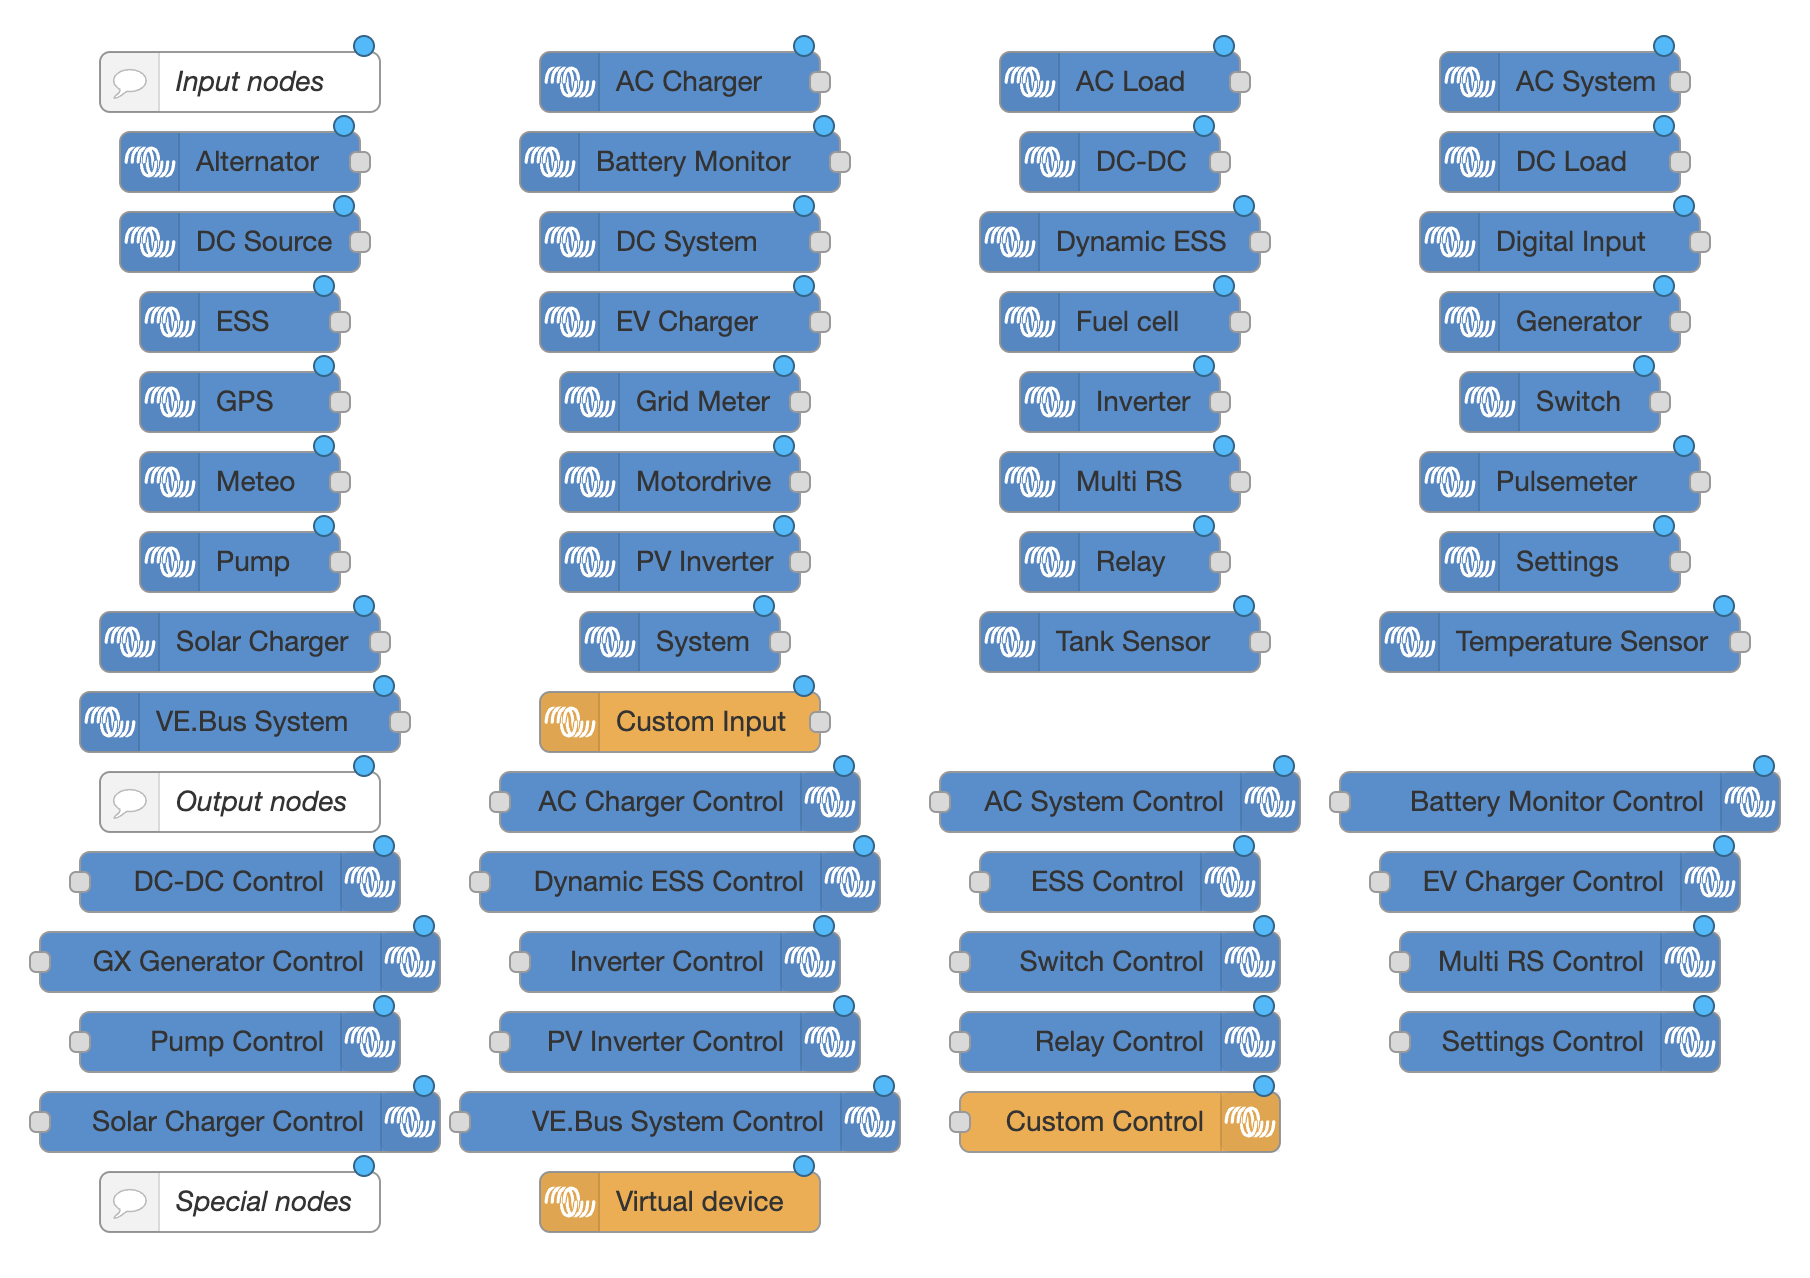
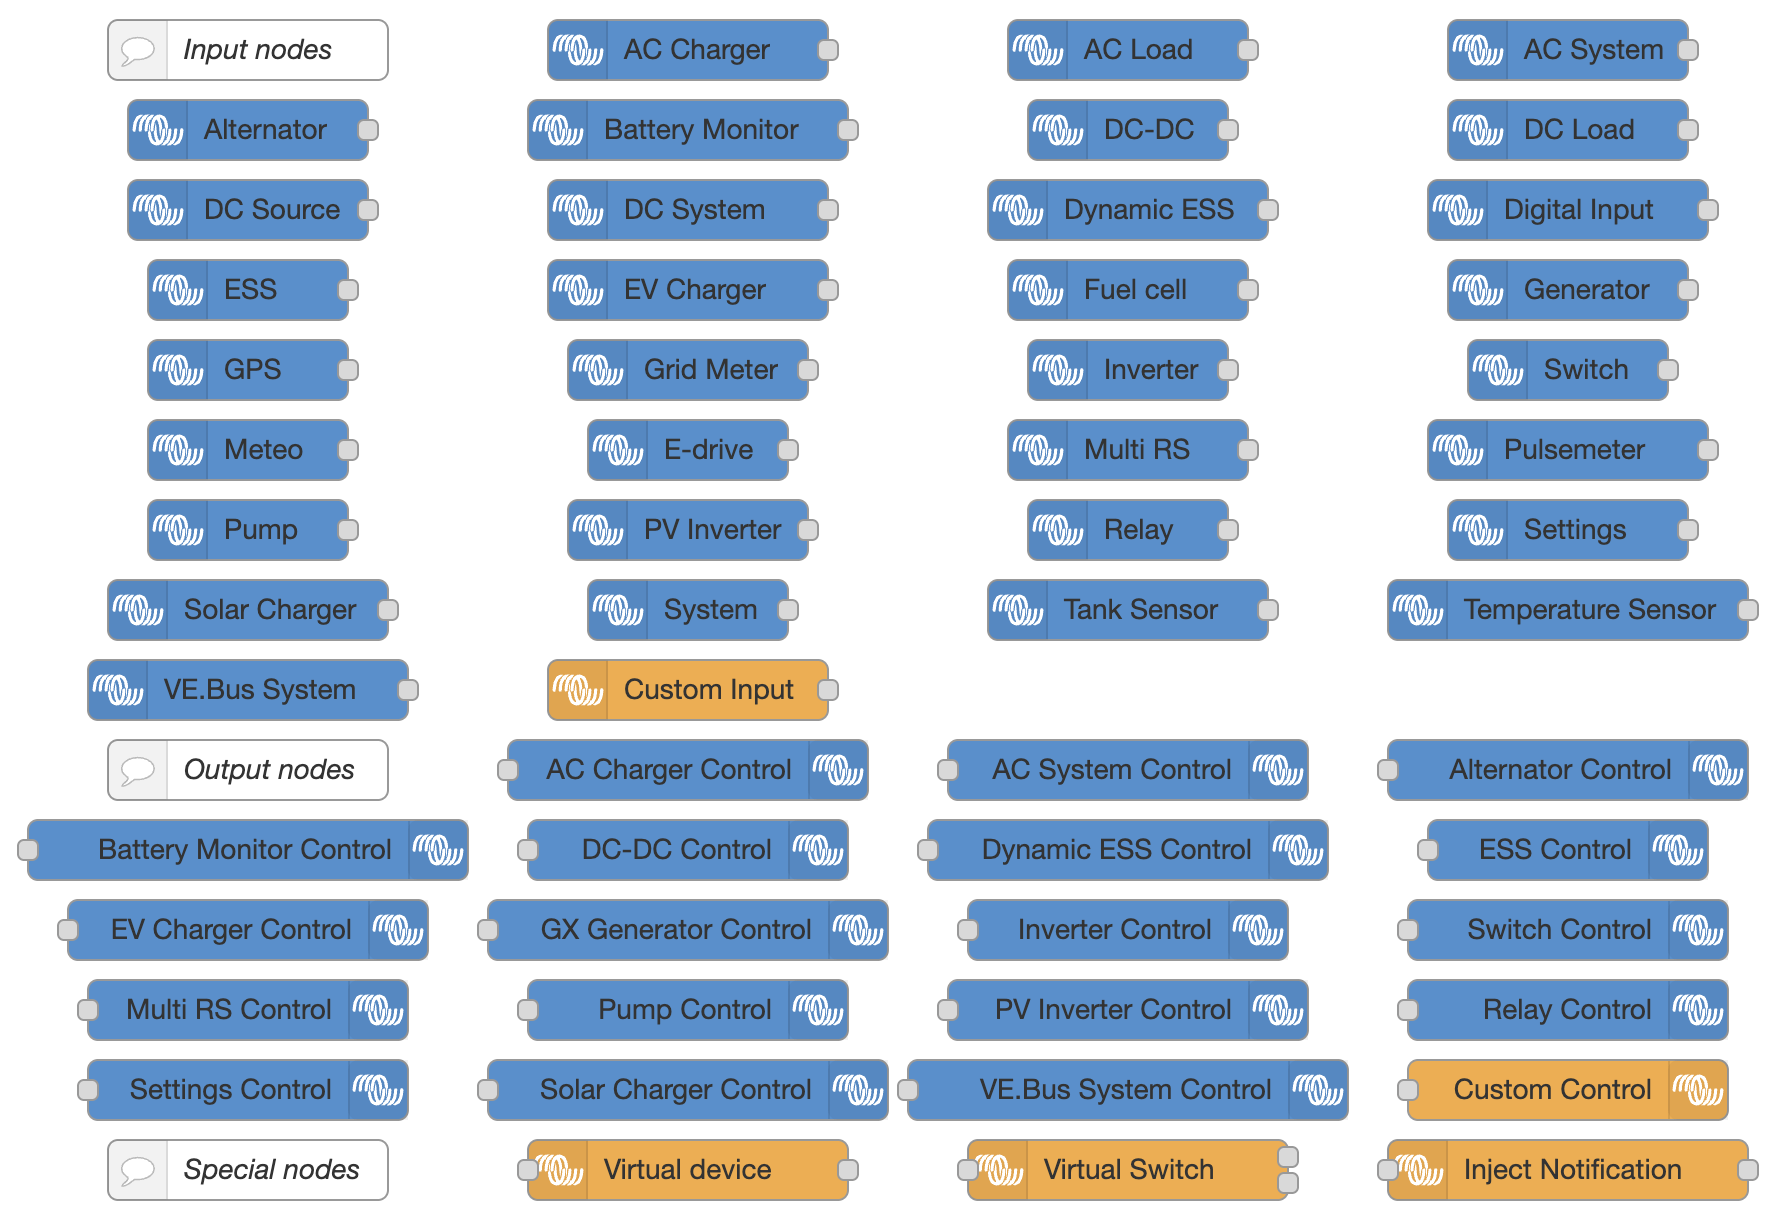
feat(alternator): add output-alternator node for Orion XS control in Charger mode
When the Orion XS is in Charger mode it registers on D-Bus as
com.victronenergy.alternator. The alternator /Mode path lacked
mode: both, so there was no way to write to it, and no
victron-output-alternator node existed.

- Add mode: both to /Mode in the alternator service definition
- Register victron-output-alternator node in JS and HTML
- Add output-alternator to listAvailableServices()
- Set alternator help.output to " " so node-palette.js includes it
- Add victron-virtual-switch and victron-inject to node-palette.js
- Regenerate config-client.html docs and wiki pages
- Update node-palette.png screenshot

Closes #193

diff --git a/src/nodes/config-client.html b/src/nodes/config-client.html
@@ -158,7 +158,7 @@ Questions can also be asked within the Node-RED space on the Victron Energy comm
     border-left: 4px solid #007acc;
     border-radius: 4px;
   }
-  
+
   .wildcard-info code {
     background-color: #e1f5fe;
     color: #01579b;
@@ -166,12 +166,12 @@ Questions can also be asked within the Node-RED space on the Victron Energy comm
     padding: 1px 3px;
     border-radius: 3px;
   }
-  
+
   .wildcard-info ul {
     margin: 5px 0 0 0;
     padding-left: 20px;
   }
-  
+
   dt[style*="border-left"], dd[style*="border-left"] {
     background: #fcfcfc;
   }
@@ -766,7 +766,146 @@ Questions can also be asked within the Node-RED space on the Victron Energy comm
   <dd>Dbus path: <b>/History/EnergyOut</b><span class="property-mode"></span>
 </dd>
   <dt class="optional">Mode<span class="property-type">enum</span></dt>
-  <dd>Dbus path: <b>/Mode</b><span class="property-mode"></span>
+  <dd>Dbus path: <b>/Mode</b><span class="property-mode"> (Mode: both)</span>
+<ul>
+  <li>1 - On</li>
+  <li>4 - Off</li>
+</ul></dd>
+  <dt class="optional">Alternator speed (RPM)<span class="property-type">float</span></dt>
+  <dd>Dbus path: <b>/Speed</b><span class="property-mode"></span>
+</dd>
+  <dt class="optional">Alternator state<span class="property-type">enum</span></dt>
+  <dd>Dbus path: <b>/State</b><span class="property-mode"></span>
+<ul>
+  <li>0 - Off</li>
+  <li>2 - Fault</li>
+  <li>3 - Bulk</li>
+  <li>4 - Absorption</li>
+  <li>5 - Float</li>
+  <li>6 - Storage</li>
+  <li>7 - Equalize</li>
+  <li>11 - Psu</li>
+  <li>252 - External control</li>
+</ul></dd>
+</dl>
+</script>
+
+<script type="text/x-red" data-help-name="victron-output-alternator">
+<h3>Details</h3>
+<p>The <strong>output nodes</strong> have two selectable inputs: the devices select and measurement select. The available options are dynamically updated based on the data that is actually available on the Venus device.</p>
+
+<div class="wildcard-info" style="background: #f5f5f5; padding: 10px; margin: 10px 0; border-left: 4px solid #007acc;">
+  <strong>📝 Wildcard Paths:</strong> 
+  Paths containing placeholders like <code>{type}</code>, <code>{tracker}</code>, <code>{phase}</code> 
+  will be automatically expanded to show available options based on your connected devices.
+  <ul style="margin: 5px 0;">
+    <li><code>{type}</code> - Switch types (output_1, output_2, pwm_1, relay_1, etc.)</li>
+    <li><code>{tracker}</code> - PV tracker numbers (0, 1, 2, 3)</li>
+    <li><code>{phase}</code> - AC phases (1, 2, 3 for L1, L2, L3)</li>
+    <li><code>{day}</code> - History days (0=today, 1=yesterday)</li>
+    <li><code>{input}</code> - AC inputs (1, 2)</li>
+    <li><code>{channel}</code> - DC channels (0, 1)</li>
+    <li><code>{index}</code> - Index numbers (0, 1, 2, 3, etc.)</li>
+  </ul>
+</div> 
+<h3>Alternator</h3>
+<dl class="message-properties">
+  <dt class="optional">High auxiliary voltage alarm<span class="property-type">enum</span></dt>
+  <dd>Dbus path: <b>/Alarms/HighStarterVoltage</b><span class="property-mode"></span>
+<ul>
+  <li>0 - Ok</li>
+  <li>1 - Warning</li>
+  <li>2 - Alarm</li>
+</ul></dd>
+  <dt class="optional">High temperature alarm<span class="property-type">enum</span></dt>
+  <dd>Dbus path: <b>/Alarms/HighTemperature</b><span class="property-mode"></span>
+<ul>
+  <li>0 - Ok</li>
+  <li>1 - Warning</li>
+  <li>2 - Alarm</li>
+</ul></dd>
+  <dt class="optional">High voltage alarm<span class="property-type">enum</span></dt>
+  <dd>Dbus path: <b>/Alarms/HighVoltage</b><span class="property-mode"></span>
+<ul>
+  <li>0 - Ok</li>
+  <li>1 - Warning</li>
+  <li>2 - Alarm</li>
+</ul></dd>
+  <dt class="optional">Low auxiliary voltage alarm<span class="property-type">enum</span></dt>
+  <dd>Dbus path: <b>/Alarms/LowStarterVoltage</b><span class="property-mode"></span>
+<ul>
+  <li>0 - Ok</li>
+  <li>1 - Warning</li>
+  <li>2 - Alarm</li>
+</ul></dd>
+  <dt class="optional">Low temperature alarm<span class="property-type">enum</span></dt>
+  <dd>Dbus path: <b>/Alarms/LowTemperature</b><span class="property-mode"></span>
+<ul>
+  <li>0 - Ok</li>
+  <li>1 - Warning</li>
+  <li>2 - Alarm</li>
+</ul></dd>
+  <dt class="optional">Low voltage alarm<span class="property-type">enum</span></dt>
+  <dd>Dbus path: <b>/Alarms/LowVoltage</b><span class="property-mode"></span>
+<ul>
+  <li>0 - No alarm</li>
+  <li>2 - Alarm</li>
+</ul></dd>
+  <dt class="optional" style="padding-top: 8px; padding-left: 8px;">Battery current <code style="background-color: #e1f5fe; color: #01579b; font-weight: bold; padding: 1px 3px; border-radius: 3px;">{channel}</code> (A)<span class="property-type">float</span></dt>
+  <dd style="padding-top: 8px; padding-left: 8px;">Dbus path: <b>/Dc/<code style="background-color: #e1f5fe; color: #01579b; font-weight: bold; padding: 1px 3px; border-radius: 3px;">{channel}</code>/Current</b><span class="property-mode"></span>
+</dd>
+  <dt class="optional" style="padding-top: 8px; padding-left: 8px;">Battery temperature <code style="background-color: #e1f5fe; color: #01579b; font-weight: bold; padding: 1px 3px; border-radius: 3px;">{channel}</code> (°C)<span class="property-type">float</span></dt>
+  <dd style="padding-top: 8px; padding-left: 8px;">Dbus path: <b>/Dc/<code style="background-color: #e1f5fe; color: #01579b; font-weight: bold; padding: 1px 3px; border-radius: 3px;">{channel}</code>/Temperature</b><span class="property-mode"></span>
+</dd>
+  <dt class="optional" style="padding-top: 8px; padding-left: 8px;">Battery voltage <code style="background-color: #e1f5fe; color: #01579b; font-weight: bold; padding: 1px 3px; border-radius: 3px;">{channel}</code> (V)<span class="property-type">float</span></dt>
+  <dd style="padding-top: 8px; padding-left: 8px;">Dbus path: <b>/Dc/<code style="background-color: #e1f5fe; color: #01579b; font-weight: bold; padding: 1px 3px; border-radius: 3px;">{channel}</code>/Voltage</b><span class="property-mode"></span>
+</dd>
+  <dt class="optional">Input voltage (before DC/DC converter) (V DC)<span class="property-type">float</span></dt>
+  <dd>Dbus path: <b>/Dc/In/V</b><span class="property-mode"></span>
+</dd>
+  <dt class="optional">Input power (W DC)<span class="property-type">float</span></dt>
+  <dd>Dbus path: <b>/Dc/In/P</b><span class="property-mode"></span>
+</dd>
+  <dt class="optional">Engine speed (RPM)<span class="property-type">float</span></dt>
+  <dd>Dbus path: <b>/Engine/Speed</b><span class="property-mode"></span>
+</dd>
+  <dt class="optional">Alternator error code<span class="property-type">enum</span></dt>
+  <dd>Dbus path: <b>/ErrorCode</b><span class="property-mode"></span>
+<ul>
+  <li>12 - High battery temperature</li>
+  <li>13 - High battery voltage</li>
+  <li>14 - Low battery voltage</li>
+  <li>15 - VBat exceeds $CPB</li>
+  <li>21 - High alternator temperature</li>
+  <li>22 - Alternator overspeed</li>
+  <li>24 - Internal error</li>
+  <li>41 - High field FET temperature</li>
+  <li>42 - Sensor missing</li>
+  <li>43 - Low VAlt</li>
+  <li>44 - High Voltage offset</li>
+  <li>45 - VAlt exceeds $CPB</li>
+  <li>53 - Battery instance out of range</li>
+  <li>54 - Too many BMSes</li>
+  <li>55 - AEBus fault</li>
+  <li>56 - Too many Victron devices</li>
+  <li>91 - BMS lost</li>
+  <li>92 - Forced idle</li>
+  <li>201 - DCDC converter fail</li>
+  <li>51-52 - Battery disconnect request</li>
+  <li>58-61 - Battery requested disconnection</li>
+  <li>201-207 - DCDC error</li>
+</ul></dd>
+  <dt class="optional">Alternator Field Drive %<span class="property-type">float</span></dt>
+  <dd>Dbus path: <b>/FieldDrive</b><span class="property-mode"></span>
+</dd>
+  <dt class="optional">Cumulative amp-hours charged (Ah)<span class="property-type">float</span></dt>
+  <dd>Dbus path: <b>/History/Cumulative/User/ChargedAh</b><span class="property-mode"></span>
+</dd>
+  <dt class="optional">Total energy produced (kWh)<span class="property-type">float</span></dt>
+  <dd>Dbus path: <b>/History/EnergyOut</b><span class="property-mode"></span>
+</dd>
+  <dt class="optional">Mode<span class="property-type">enum</span></dt>
+  <dd>Dbus path: <b>/Mode</b><span class="property-mode"> (Mode: both)</span>
 <ul>
   <li>1 - On</li>
   <li>4 - Off</li>

diff --git a/test/victron-system.test.js b/test/victron-system.test.js
@@ -1,5 +1,48 @@
 const SystemConfiguration = require('../src/services/victron-system')
 const utils = require('../src/services/utils')
+const servicesJson = require('../src/services/services.json')
+
+describe('Alternator /Mode control (Orion XS in Charger mode)', () => {
+  let systemConfig
+
+  beforeEach(() => {
+    systemConfig = new SystemConfiguration()
+    systemConfig.cache = {
+      'com.victronenergy.alternator.ttyUSB0': {
+        '/ProductName': 'Orion XS',
+        '/Mode': 1,
+        '/ModeIsAdjustable': 1,
+        '/State': 3,
+        '/DeviceInstance': 0
+      }
+    }
+  })
+
+  test('alternator /Mode has mode: both in services.json', () => {
+    const modePath = servicesJson.alternator.alternator.find(p => p.path === '/Mode')
+    expect(modePath).toBeDefined()
+    expect(modePath.mode).toBe('both')
+  })
+
+  test('output-alternator node exposes /Mode for writing', () => {
+    const result = systemConfig.getNodeServices('output-alternator')
+    expect(result.services).toHaveLength(1)
+    const modePath = result.services[0].paths.find(p => p.path === '/Mode')
+    expect(modePath).toBeDefined()
+  })
+
+  test('input-alternator node exposes /Mode for reading', () => {
+    const result = systemConfig.getNodeServices('input-alternator')
+    expect(result.services).toHaveLength(1)
+    const modePath = result.services[0].paths.find(p => p.path === '/Mode')
+    expect(modePath).toBeDefined()
+  })
+
+  test('output-alternator is included in listAvailableServices', () => {
+    const services = systemConfig.listAvailableServices()
+    expect(services).toHaveProperty('output-alternator')
+  })
+})
 
 describe('SystemConfiguration path sorting', () => {
   let systemConfig

diff --git a/src/nodes/victron-nodes.html b/src/nodes/victron-nodes.html
@@ -1215,6 +1215,7 @@
     registerInputNode('victron-input-vebus', 'VE.Bus System', 'vebus');
 
     registerOutputNode('victron-output-accharger', 'AC Charger', 'accharger');
+    registerOutputNode('victron-output-alternator', 'Alternator', 'alternator');
     registerOutputNode('victron-output-acsystem', 'AC System', 'acsystem');
     registerOutputNode('victron-output-battery', 'Battery Monitor', 'battery');
     registerOutputNode('victron-output-charger', 'Charger', 'charger');

diff --git a/scripts/node-palette.js b/scripts/node-palette.js
@@ -74,5 +74,7 @@ for (const node of nodes) {
 }
 
 output.nodes.push({ type: 'victron-virtual', name: 'Virtual device', z: '1234567891', id: '1234567891', x: 370, y: 620 })
+output.nodes.push({ type: 'victron-virtual-switch', name: 'Virtual Switch', z: '1234567891', id: '1234567892', x: 590, y: 620 })
+output.nodes.push({ type: 'victron-inject', name: 'Inject Notification', z: '1234567891', id: '1234567893', x: 810, y: 620 })
 
 console.log(JSON.stringify(output))

diff --git a/src/nodes/victron-nodes.js b/src/nodes/victron-nodes.js
@@ -587,6 +587,7 @@ module.exports = function (RED) {
 
   // Output nodes
   RED.nodes.registerType('victron-output-accharger', BaseOutputNode)
+  RED.nodes.registerType('victron-output-alternator', BaseOutputNode)
   RED.nodes.registerType('victron-output-acsystem', BaseOutputNode)
   RED.nodes.registerType('victron-output-battery', BaseOutputNode)
   RED.nodes.registerType('victron-output-charger', BaseOutputNode)

diff --git a/src/services/victron-system.js b/src/services/victron-system.js
@@ -239,6 +239,7 @@ class SystemConfiguration {
 
       // output services
       'output-accharger': this.getNodeServices('output-accharger'),
+      'output-alternator': this.getNodeServices('output-alternator'),
       'output-acsystem': this.getNodeServices('output-acsystem'),
       'output-battery': this.getNodeServices('output-battery'),
       'output-charger': this.getNodeServices('output-charger'),
